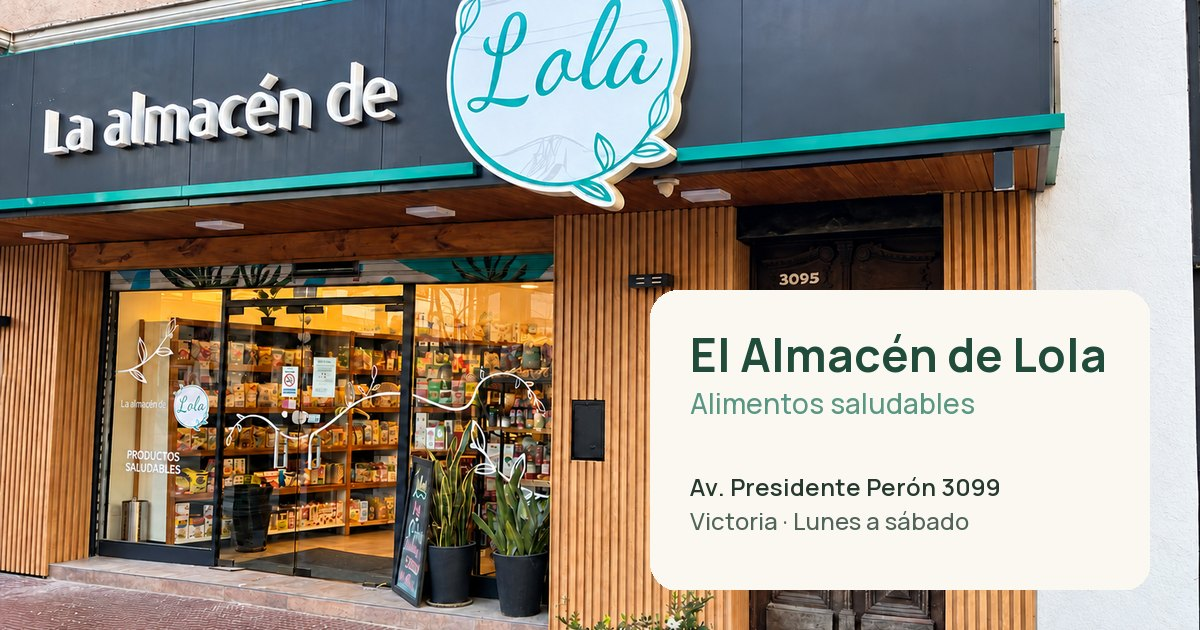
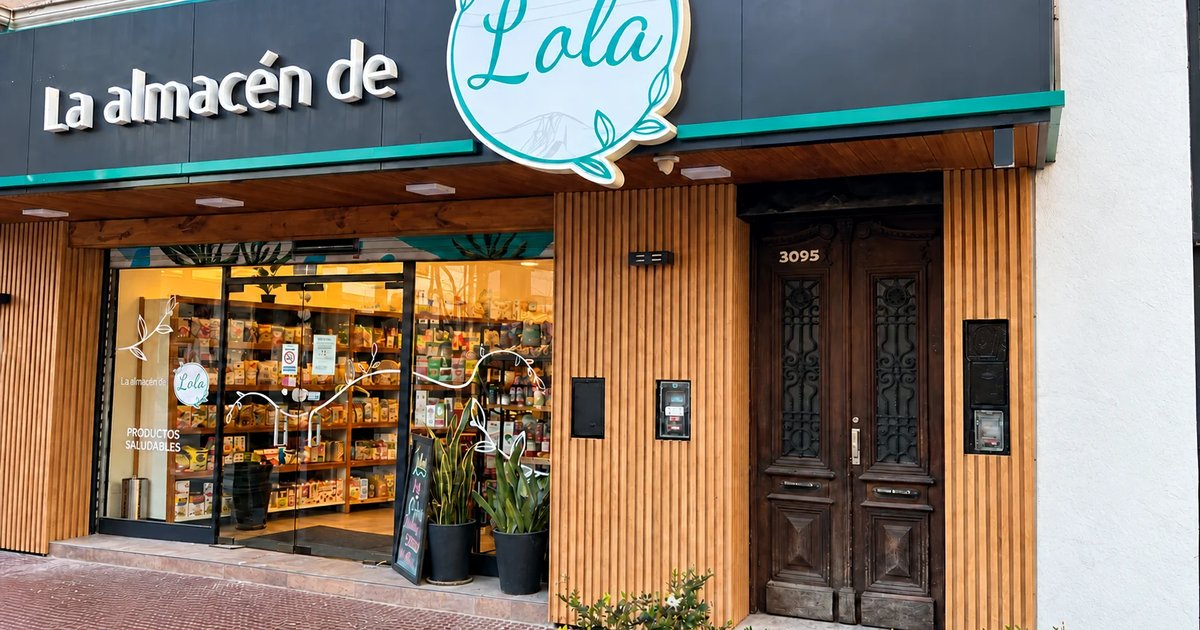
Fotos reales del kit fotográfico: portada, recorrido del celular, galería y Visitanos

diff --git a/src/data/site.ts b/src/data/site.ts
@@ -4,32 +4,28 @@
 import type { ImageMetadata } from 'astro';
 import { url } from '../lib/url';
 
-// Fotos reales del local. Las interiores vienen de Google Maps (ver `credito`):
-// hace falta permiso de sus autoras antes de publicar.
-import fachada from '../assets/local/fachada.jpg';
-import mostrador from '../assets/local/mostrador.jpg';
-import pasillo from '../assets/local/pasillo.jpg';
-import granelLamparas from '../assets/local/granel-lamparas.jpg';
-import exhibidores from '../assets/local/exhibidores.jpg';
-
-// Fotos del Instagram del almacén (publicaciones propias) para la galería.
-import galMesaChocolates from '../assets/galeria/mesa-chocolates.jpg';
-import galProductosExhibicion from '../assets/galeria/productos-exhibicion.jpg';
-import galPublicacion04 from '../assets/galeria/publicacion-04.jpg';
-import galPublicacion05 from '../assets/galeria/publicacion-05.jpg';
-import galPublicacion06 from '../assets/galeria/publicacion-06.jpg';
-import galPublicacion08 from '../assets/galeria/publicacion-08.jpg';
-import galPublicacion09 from '../assets/galeria/publicacion-09.jpg';
-import galPublicacion10 from '../assets/galeria/publicacion-10.jpg';
-import galFachadaAcceso from '../assets/galeria/fachada-acceso.jpg';
-// Cuadros del video del recorrido (474 × 632).
-import galVideoGondola from '../assets/galeria/video-gondola-luz.jpg';
-import galVideoPaquetes from '../assets/galeria/video-estantes-paquetes.jpg';
-import galVideoLamparas from '../assets/galeria/video-lamparas-mesa.jpg';
-import galVideoMostrador from '../assets/galeria/video-mostrador-estantes.jpg';
-import galVideoGranel from '../assets/galeria/video-granel-estantes.jpg';
-import galVideoCongelados from '../assets/galeria/video-congelados.jpg';
-import galVideoPlanta from '../assets/galeria/video-estante-planta.jpg';
+// Fotos reales del local (kit fotográfico del 12/10/2026, retoque de luz y color sin
+// agregar ni quitar objetos). Las "-movil" son recortes 3:4. Pasillo, granel, mostrador y
+// exhibidores salen de fotos que subieron clientas a Google Maps (ver `credito` y PENDIENTES.md).
+import fachada from '../assets/fotos/01-fachada-hero.webp';
+import fotoPasillo from '../assets/fotos/04-pasillo.webp';
+import fotoMostrador from '../assets/fotos/06-mostrador.webp';
+import fotoVistaGeneral from '../assets/fotos/07-vista-general.webp';
+import m02FachadaReal from '../assets/fotos/02-fachada-real-movil.webp';
+import m03Entrada from '../assets/fotos/03-entrada-movil.webp';
+import m04Pasillo from '../assets/fotos/04-pasillo-movil.webp';
+import m05Granel from '../assets/fotos/05-granel-movil.webp';
+import m06Mostrador from '../assets/fotos/06-mostrador-movil.webp';
+import m07VistaGeneral from '../assets/fotos/07-vista-general-movil.webp';
+import m08Despensa from '../assets/fotos/08-despensa-movil.webp';
+import m09FrutosSecos from '../assets/fotos/09-frutos-secos-movil.webp';
+import m10Infusiones from '../assets/fotos/10-infusiones-movil.webp';
+import m11Especias from '../assets/fotos/11-especias-movil.webp';
+import m12Exhibidores from '../assets/fotos/12-exhibidores-movil.webp';
+import m13Heladeras from '../assets/fotos/13-heladeras-movil.webp';
+import m14GranelEstantes from '../assets/fotos/14-granel-estantes-movil.webp';
+import m15Aceites from '../assets/fotos/15-aceites-movil.webp';
+import m16Snacks from '../assets/fotos/16-snacks-movil.webp';
 
 // Logos de marcas (de los sitios oficiales de cada una).
 import marcaNatier from '../assets/marcas/natier.png';
@@ -169,17 +165,17 @@ export const recorridoMovil: ParadaMovil[] = [
     etiqueta: 'La entrada',
     titulo: 'Pasá, que te estábamos esperando',
     linea: 'Un almacén luminoso sobre la avenida, en pleno Victoria.',
-    foto: fachada,
-    alt: 'Puerta de vidrio y vidriera iluminada de El Almacén de Lola',
-    encuadre: '35% 50%',
-    foco: '25% 65%',
-    zoom: 1.2,
+    foto: m03Entrada,
+    alt: 'Vidriera de El Almacén de Lola con el logo, un banco de madera y plantas en la entrada',
+    encuadre: '50% 50%',
+    foco: '45% 60%',
+    zoom: 1.06,
   },
   {
     etiqueta: 'Góndolas',
     titulo: 'Góndolas de punta a punta',
     linea: 'Despensa natural, heladeras y congelados para resolver la semana.',
-    foto: pasillo,
+    foto: fotoPasillo,
     alt: 'Pasillo del almacén con góndolas de madera a ambos lados y heladeras',
     encuadre: '50% 50%',
     foco: '50% 55%',
@@ -189,19 +185,19 @@ export const recorridoMovil: ParadaMovil[] = [
     etiqueta: 'Granel',
     titulo: 'Frutos secos para todos los gustos',
     linea: 'Frutos secos, semillas y mezclas fraccionadas, listas para llevar.',
-    foto: granelLamparas,
-    alt: 'Lámparas blancas colgantes sobre vitrinas de frutos secos y estantes de madera',
+    foto: m09FrutosSecos,
+    alt: 'Mesa con potes de frutos secos, mezclas y budines fraccionados en el local',
     encuadre: '50% 50%',
-    foco: '50% 70%',
+    foco: '50% 45%',
     zoom: 1.08,
   },
   {
     etiqueta: 'El mostrador',
     titulo: 'Te ayudamos a elegir',
     linea: 'Preguntanos lo que necesites: nos encanta ayudarte.',
-    foto: mostrador,
-    alt: 'Mesa de madera con frutos secos fraccionados frente al mostrador',
-    encuadre: '65% 50%',
+    foto: fotoMostrador,
+    alt: 'Mesa de madera con budines, chocolates y frutos secos frente al mostrador',
+    encuadre: '55% 50%',
     foco: '60% 50%',
     zoom: 1.06,
   },
@@ -209,10 +205,10 @@ export const recorridoMovil: ParadaMovil[] = [
     etiqueta: 'Despensa',
     titulo: 'Y mucho más para descubrir',
     linea: 'Recorré con tiempo: siempre hay algo rico para probar.',
-    foto: exhibidores,
-    alt: 'Exhibidores con yerbas, tés, barritas y snacks',
-    encuadre: '100% 50%',
-    foco: '80% 50%',
+    foto: fotoVistaGeneral,
+    alt: 'Vista del interior con estanterías de madera, granel y golosinas a la vista',
+    encuadre: '50% 50%',
+    foco: '55% 60%',
     zoom: 1.06,
   },
 ];
@@ -238,28 +234,24 @@ export const momentos: Array<{
   { foto: catOrganicos, cuando: 'Cuando quieras', titulo: 'De la tierra, sin vueltas', linea: 'Productos orgánicos certificados. Te ayudamos a reconocerlos.', rubros: 'Orgánicos', pendiente: true },
 ];
 
-// Fotos reales del local para la galería deslizable. `credito`: autora de la foto en
-// Google Maps; las que no tienen crédito son del Instagram del propio almacén.
+// Galería deslizable: fotos reales del local en 3:4. `credito`: autora de la foto original
+// en Google Maps (hay que pedirle permiso; ver PENDIENTES.md).
 export const galeria: Array<{ foto: ImageMetadata; alt: string; credito?: string }> = [
-  { foto: galMesaChocolates, alt: 'Mesa de madera con budines, chocolates orgánicos y frutos secos, con lámparas y heladeras al fondo' },
-  { foto: galVideoGondola, alt: 'Góndola de madera llena de paquetes, con luz cálida y una planta arriba' },
-  { foto: galPublicacion05, alt: 'Cajas de té en hebras sobre un estante de madera' },
-  { foto: galVideoLamparas, alt: 'Lámparas colgantes sobre la mesa de granel y las góndolas del fondo' },
-  { foto: galPublicacion04, alt: 'Pastas de maní y proteínas en frascos sobre un estante de madera' },
-  { foto: pasillo, alt: 'Pasillo del almacén con góndolas a ambos lados y piso de madera', credito: 'Julia Marquez' },
-  { foto: galVideoGranel, alt: 'Estantes con frutos secos y semillas fraccionados en bolsas' },
-  { foto: galPublicacion09, alt: 'Budines y panificados envasados sobre la mesa del almacén' },
-  { foto: galVideoMostrador, alt: 'Mostrador con estantes de suplementos, snacks y productos naturales' },
-  { foto: galPublicacion08, alt: 'Estantes de madera con frascos de mermeladas y dulces' },
-  { foto: galFachadaAcceso, alt: 'Entrada del almacén con revestimiento de madera y plantas en la vereda' },
-  { foto: galVideoPaquetes, alt: 'Estantes con harinas, cereales y premezclas envasadas' },
-  { foto: galPublicacion06, alt: 'Paquete de galletitas de chocolate sostenido frente a la mesa de granel' },
-  { foto: granelLamparas, alt: 'Lámparas blancas colgantes sobre vitrinas y estantes de madera', credito: 'Julia Marquez' },
-  { foto: galVideoCongelados, alt: 'Heladeras de congelados con puertas de vidrio' },
-  { foto: galProductosExhibicion, alt: 'Exhibidor de madera con productos y carteles informativos' },
-  { foto: galVideoPlanta, alt: 'Estante de madera con snacks y una planta al costado' },
-  { foto: galPublicacion10, alt: 'Tabletas de chocolate con manteca de cacao en la góndola' },
-  { foto: exhibidores, alt: 'Exhibidores con barritas, snacks y productos sin sellos', credito: 'Miriam Marto' },
+  { foto: m03Entrada, alt: 'Vidriera con el logo de Lola, un banco de madera y plantas en la entrada' },
+  { foto: m09FrutosSecos, alt: 'Potes de frutos secos y mezclas sobre la mesa, con budines adelante' },
+  { foto: m04Pasillo, alt: 'Pasillo con góndolas de madera, heladeras y lámparas colgantes', credito: 'Julia Marquez' },
+  { foto: m10Infusiones, alt: 'Estantes con yerbas, tés en caja e infusiones' },
+  { foto: m05Granel, alt: 'Rincón del granel con frascos, balanza y un ramo de flores', credito: 'Julia Marquez' },
+  { foto: m11Especias, alt: 'Frascos de especias y semillas en estantes de madera clara' },
+  { foto: m06Mostrador, alt: 'Mesa central con budines, chocolates y frutos secos', credito: 'Miriam Marto' },
+  { foto: m15Aceites, alt: 'Botellas de aceite de oliva y aceites saludables en la góndola' },
+  { foto: m07VistaGeneral, alt: 'Interior con estanterías de madera, granel y golosinas a la vista' },
+  { foto: m12Exhibidores, alt: 'Exhibidor de barritas y snacks sin sellos', credito: 'Miriam Marto' },
+  { foto: m14GranelEstantes, alt: 'Estantes con frascos de granos, semillas y legumbres' },
+  { foto: m13Heladeras, alt: 'Heladera con quesos, untables y productos refrigerados' },
+  { foto: m08Despensa, alt: 'Estanterías con harinas, azúcares y productos fraccionados' },
+  { foto: m16Snacks, alt: 'Snacks, mezclas y golosinas en exhibidores transparentes' },
+  { foto: m02FachadaReal, alt: 'Frente del almacén con el cartel de Lola y la vidriera' },
 ];
 
 // Escenas ilustrativas para la franja "Del almacén a tu mesa".

diff --git a/PENDIENTES.md b/PENDIENTES.md
@@ -6,8 +6,8 @@ Todo lo de esta lista es propuesta o dato sin confirmar. Validarlo con la encarg
 
 | # | Tema | Situación | Dónde se cambia |
 |---|---|---|---|
-| 1 | **Fotos de Google Maps** | Las 4 fotos del interior (`src/assets/local/mostrador`, `granel-lamparas`, `pasillo`, `exhibidores`) las subieron a Google Maps dos clientas: **Miriam Marto** y **Julia Marquez**. Los derechos son de ellas: subirlas a Maps no autoriza a usarlas en otra web. Pedirles permiso por Maps o Instagram, o reemplazarlas por fotos propias de las mismas tomas. La galería no muestra créditos (decisión de diseño); si se pide permiso, conviene ofrecerles mencionarlas. | `src/data/site.ts` → `galeria` y `recorridoMovil` (el recorrido del celular usa estas fotos) |
-| 2 | **Origen de la fachada** | `fachada.jpg` es una versión retocada ("fachada-limpia"). Confirmar de dónde salió la foto original y que se pueda usar. | `src/assets/local/fachada.jpg` |
+| 1 | **Fotos de Google Maps** | Las fotos `04-pasillo`, `05-granel`, `06-mostrador` y `12-exhibidores` de `src/assets/fotos/` son versiones retocadas de fotos que subieron a Google Maps dos clientas: **Miriam Marto** y **Julia Marquez**. Los derechos son de ellas: subirlas a Maps no autoriza a usarlas en otra web. Pedirles permiso por Maps o Instagram, o reemplazarlas por fotos propias de las mismas tomas. La galería no muestra créditos (decisión de diseño); si se pide permiso, conviene ofrecerles mencionarlas. | `src/data/site.ts` → `galeria` y `recorridoMovil`. Las demás fotos del kit son propias (12/10/2026) |
+| 2 | **Fachada de la portada** | `01-fachada-hero.webp` es una versión retocada con IA (la elegida por el kit por impacto). "Visitanos" usa la foto real `02-fachada-real`. | `src/assets/fotos/` |
 | 3 | **Video del recorrido** | Sale del reel propio del local. Se usaron solo los tramos sin personas y sin texto, pero conviene que la dueña lo apruebe. La galería también usa 7 cuadros de ese video (`src/assets/galeria/video-*.jpg`) y 8 fotos de publicaciones del Instagram del local. | `public/video/recorrido.mp4` |
 | 4 | **Dominio** | Hoy en GitHub Pages (`martinviretti.github.io/el-almacen-de-lola-landing`). Con dominio propio: build con `SITE_URL` y `BASE_PATH=/`, y dar de alta el sitio en Google Search Console mandando `sitemap-index.xml` (en una subcarpeta los buscadores no leen `robots.txt`). | `astro.config.mjs` → `SITE` / `BASE` |
 

diff --git a/README.md b/README.md
@@ -26,7 +26,7 @@ npm run preview   # sirve dist/ para probar el build final
 |---|---|
 | Nombre, dirección, Instagram, horarios | `src/data/negocio.ts` |
 | Paradas del recorrido, galería, marcas, sellos, productos por momento (`momentos`), frase, preguntas | `src/data/site.ts` |
-| Fotos del local | `src/assets/local/` y `src/assets/galeria/` (Astro las convierte a WebP en el build) |
+| Fotos del local | `src/assets/fotos/` (kit fotográfico del 12/10/2026; las `-movil` son 3:4 para galería y celular) |
 | Logos oficiales de Instagram, WhatsApp y Mercado Pago | `src/components/IconoMarca.astro` (trazos del paquete `simple-icons`) |
 | Logos de marcas | `src/assets/marcas/` (PNG con fondo transparente, bajados del sitio oficial de cada marca) |
 | Fotogramas del recorrido | `src/assets/recorrido/` |
